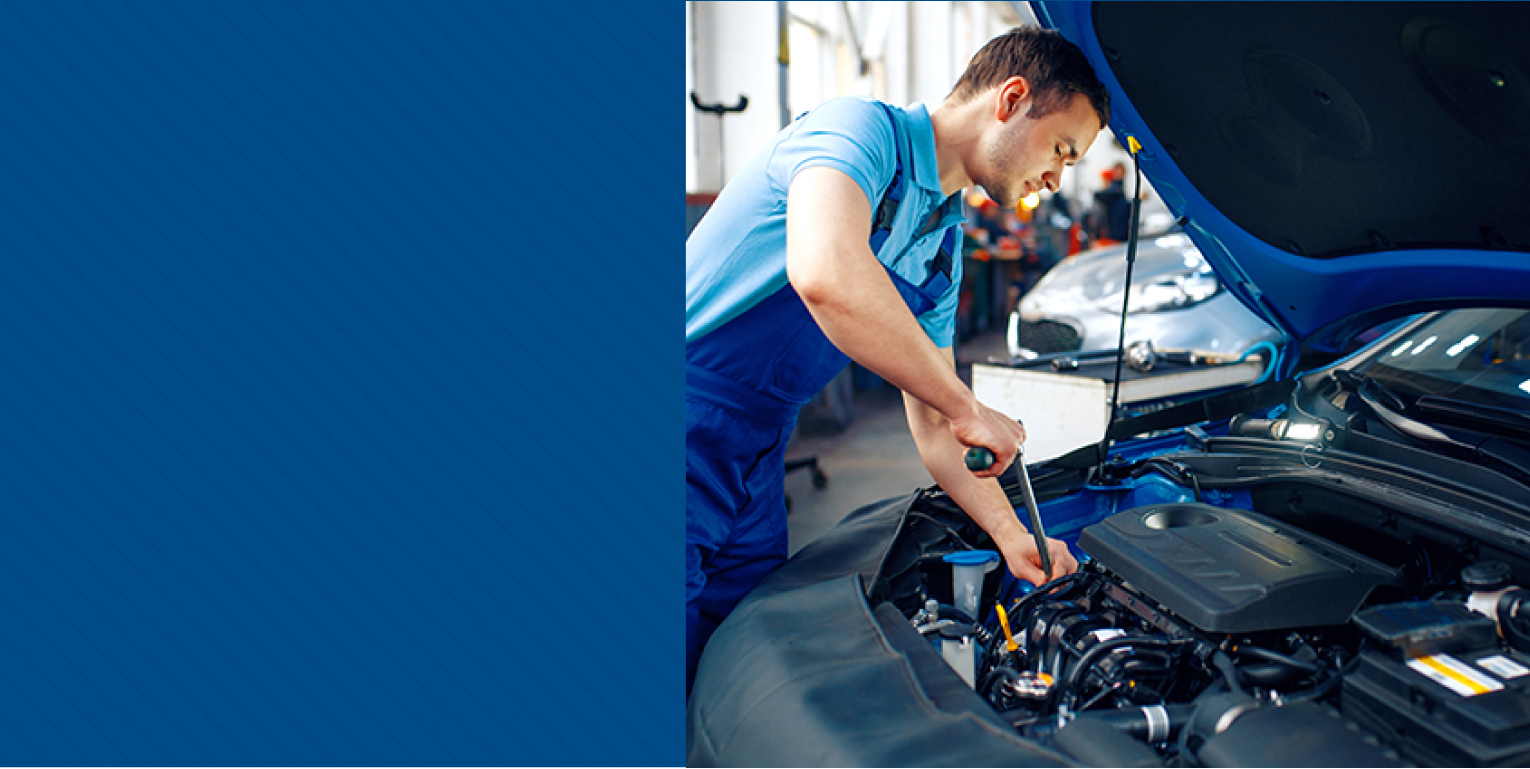
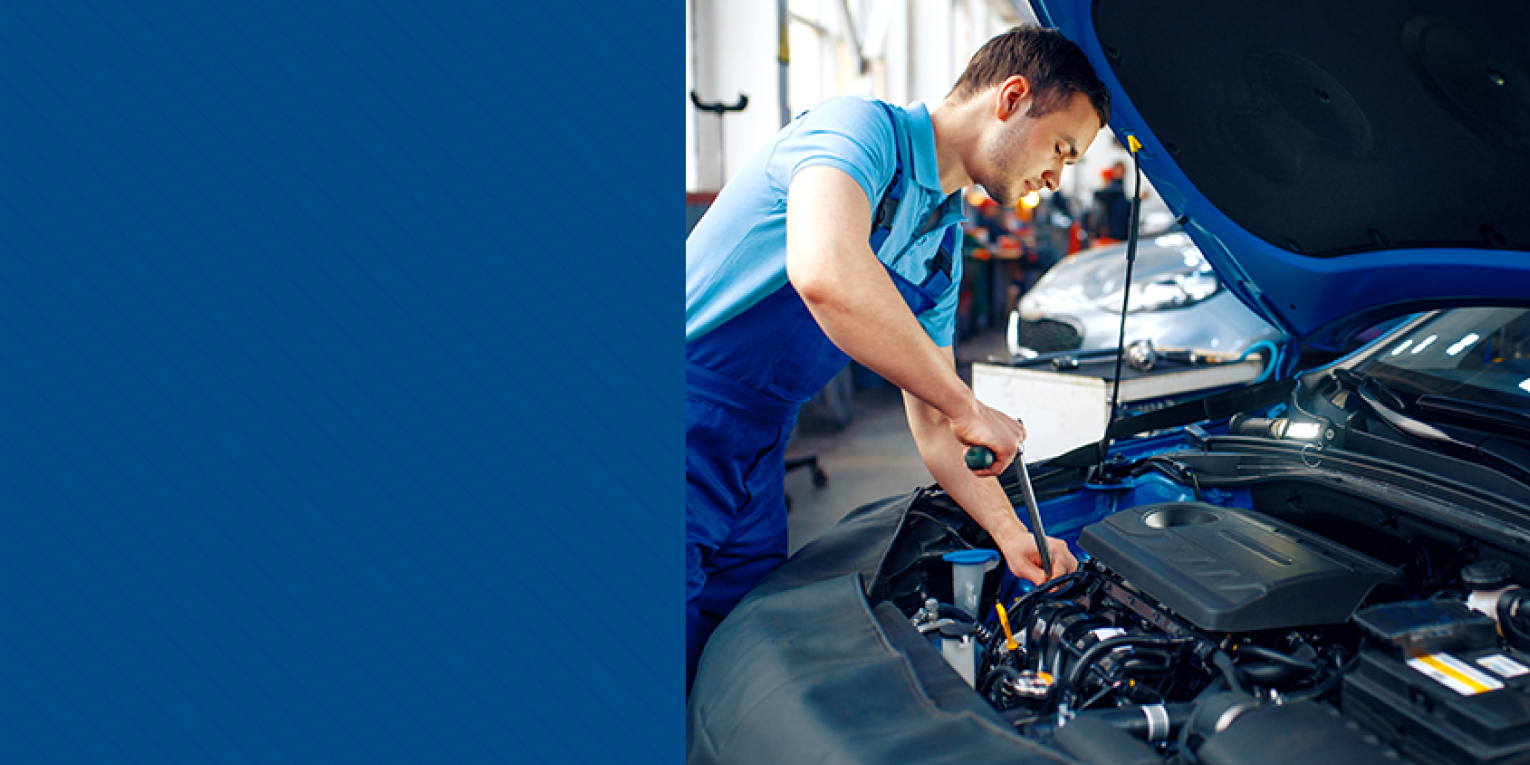
sas

diff --git a/index.html b/index.html
@@ -391,8 +391,12 @@
                 </div>
             </div>
         </div>
-        <div class="contact-us-section">
-            
+        <div class="contact-us-section space-top-bottom-100">
+            <div class="container">
+                <div class="col-md-6">
+                    
+                </div>
+            </div>
         </div>
         <footer>
             <script src="https://cdn.jsdelivr.net/npm/bootstrap@5.3.0/dist/js/bootstrap.min.js"

diff --git a/css/style.css b/css/style.css
@@ -458,6 +458,10 @@ header{
     text-transform: uppercase;
     font-weight: 700;
 }
+.contact-us-section{
+    background-image: url("../images/contact-bg.jpg");
+    background-size: cover;
+}
 @media only screen and (min-width:1920px){
 
     .container-fluid{
